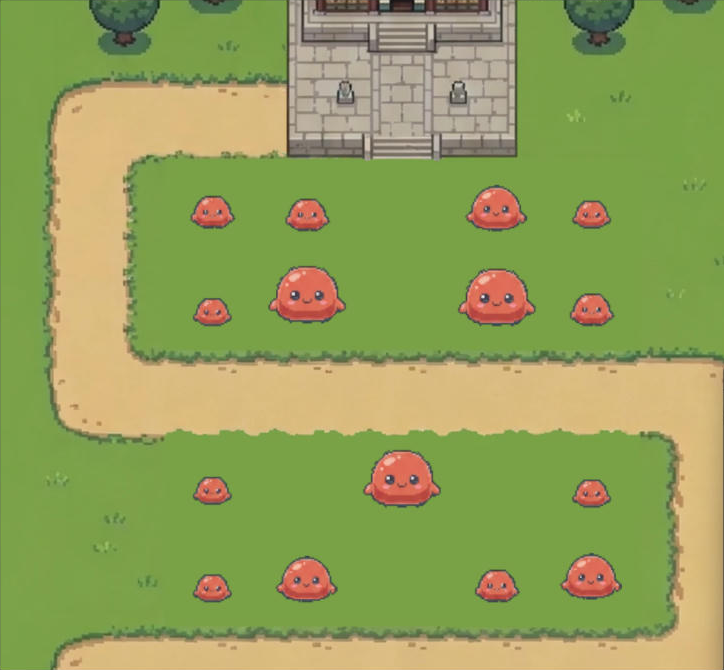
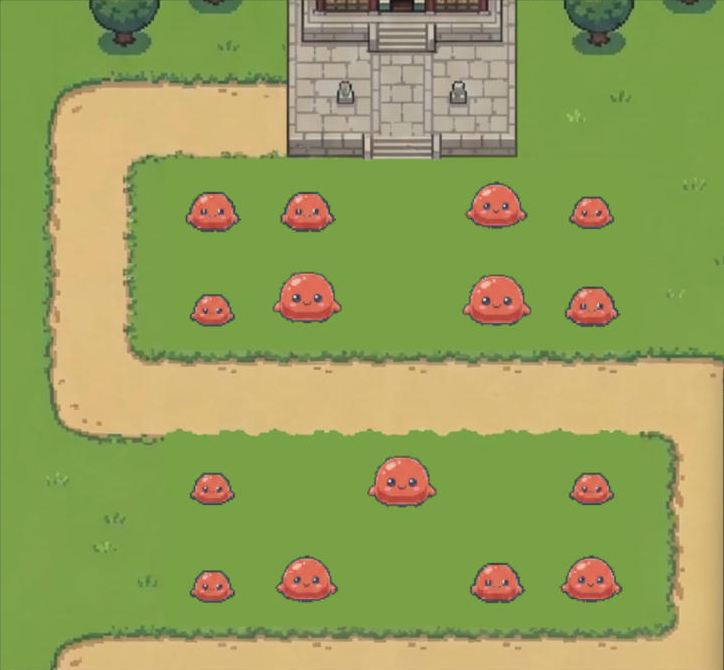
unity: 기본 슬라임 등급별 몸 폭 30·36·42·48로 고르게 / docs: 기본 슬라임에 장비 얹는 프롬프트
Claude-Session: https://claude.ai/code/session_01516Ff1ezD39vnqGwiHhyKB

diff --git a/unity/Assets/Scripts/Game/Sprites.cs b/unity/Assets/Scripts/Game/Sprites.cs
@@ -18,8 +18,11 @@ namespace Mallang
         public const float BoardPerDotV2 = 1.5f;
         public const int Unit2PxPerDot = 3; // sync_art.py UNIT2_PX와 같아야 함
 
-        /// 맵에 맞춰 다시 뽑은 기본 슬라임(base-*): 몸 폭 23~48도트로 잘게 그려져 있어 1도트 = 보드 1.125.
-        public const float BoardPerDotBase = 1.125f;
+        /// 맵에 맞춰 다시 뽑은 기본 슬라임(base-*): 그림의 몸 폭이 23·26·37·48도트라 등급 차이가 고르지 않아서,
+        /// 게임에서 보이는 몸 폭을 등급별로 정해 맞춘다 (보드 기준, 칸 63).
+        public static readonly float[] BaseBodyBoard = { 30, 36, 42, 48 };
+        static readonly float[] BaseBodyDots = { 23, 26, 37, 48 };
+        public static float BoardPerDotBase(int tier) => BaseBodyBoard[tier] / BaseBodyDots[tier];
 
         /// 미리보기 그림 고르기 (Space로 돌아감): 옛 그림 → 큰 새 그림(V2) → 맵에 맞춘 기본 슬라임
         public enum Look { V1, V2, Base }
@@ -72,7 +75,8 @@ namespace Mallang
             if (Mode == Look.Base)
             {
                 int dash = name.IndexOf('-');
-                var b = UnitV2("base" + name.Substring(dash), BoardPerDotBase);
+                int tier = System.Array.IndexOf(Rules.TierKeys, name.Substring(dash + 1));
+                var b = UnitV2("base" + name.Substring(dash), BoardPerDotBase(Mathf.Max(0, tier)));
                 if (b != null) return b;
             }
             if (UseV2)
@@ -85,7 +89,7 @@ namespace Mallang
 
         static Sprite UnitV2(string name, float boardPerDot = BoardPerDotV2)
         {
-            string key = $"unit2:{name}";
+            string key = $"unit2:{name}:{boardPerDot}";
             if (cache.TryGetValue(key, out var s)) return s;
             var footDots = Layout.Load().FootOfV2(name);
             if (footDots == null) return null;

diff --git a/art/docs/gemini-slime-pixel-prompt.md b/art/docs/gemini-slime-pixel-prompt.md
@@ -182,3 +182,28 @@ Do not change anything else on the map.
 ```
 Perfect. Now draw exactly these 4 slimes again, same pixel size, same colors, same faces, side by side on one solid flat cyan background (#00FFFF), each centered in its own equal-width cell, all standing on the same baseline, no shadow, no ground, nothing else.
 ```
+
+
+## ⑤ 기본 슬라임에 장비 얹기 (2026-11-11)
+
+> ④로 받은 기본 슬라임(`art/source/gemini/slime-unity/base-sheet.png`)이 맵과 잘 어울려서 확정. 게임 크기는 몸 폭 30·36·42·48(보드)로 고르게 맞춤 (`Sprites.BaseBodyBoard`).
+> 그 몸 위에 병과 장비만 얹는다. ④를 만든 **같은 대화**에 이어 보내면 가장 좋고, 새 대화면 `base-sheet.png`를 첨부.
+> 장비도 맵처럼 차분한 색, 청회색 외곽선. 받으면 `unity_sheet.py <병과>`로 정리.
+
+```
+Generate an image. Do not write any words, letters or numbers anywhere in the image.
+
+Use exactly these 4 slimes (the attached image / the ones you just drew): keep the same image size, the same 4 cells, the same baseline, the same pixel size, and keep every slime body, color and face exactly as it is. Do not move, resize or redraw the bodies.
+Only add equipment on top, in the same soft pixel style as the slimes and the map: muted colors, the same dark slate outline (#3C4446), light from the top-left.
+
+They are Korean Joseon-dynasty spear soldiers, rank 1 to 4 from left to right:
+1. Recruit: a plain off-white cloth headband tied on the side, a short plain wooden spear held upright in the right nub hand.
+2. Soldier: a black Joseon felt soldier hat (jeollip) with a wide round brim and a dark red cord, an iron-tipped spear with a small red tassel.
+3. Officer: the same black felt hat with a small peacock feather on the side and a short bead string hanging from the brim, a navy blue sash across the lower body (below the face), a longer iron spear.
+4. General: a steel helmet with gold trim and a small red plume (the plume stays above the helmet, not wider than the body), a long spear with a gold fitting and a red tassel, the body standing on a low round dark-red pedestal only a little wider than the body. No cape, no armor.
+
+The spears may stick out above the heads, but everything stays inside its own cell.
+Background: one solid flat cyan color (#00FFFF), no shadow, no ground, no frame.
+```
+
+다른 병과는 `spear soldiers` 와 무기 부분만 ②의 표대로 바꾼다 (모자·투구는 같음).
